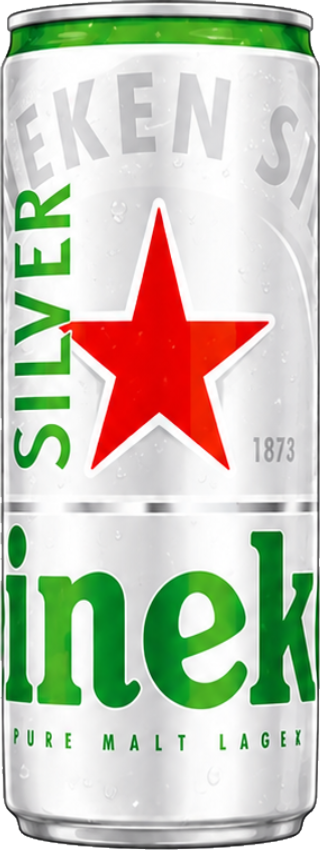
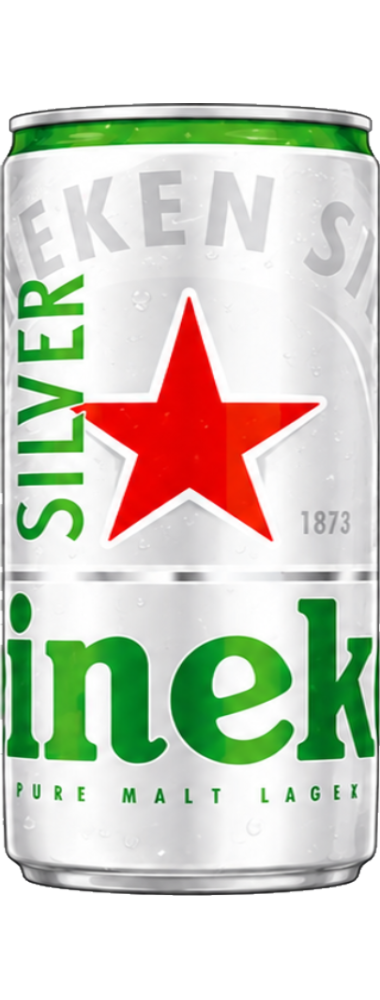
style: exactly match 250ml tall cans width to 330ml but 20.69% shorter

diff --git a/src/views/drinkInventory.js b/src/views/drinkInventory.js
@@ -473,7 +473,14 @@ export function render() {
               var scaleFactor = 1;
               if (p.volume) {
                 var ml = parseInt(p.volume.replace(/\\D/g, ''));
-                if (ml <= 250) scaleFactor = 0.82;
+                if (ml <= 250) {
+                  // Tall 250ml cans have transparent padding on canvas to match 330ml dimensions
+                  if (p.name.includes('Tiger Bạc 250ml') || p.name.includes('Heineken Silver 250ml')) {
+                    scaleFactor = 1.0;
+                  } else {
+                    scaleFactor = 0.82;
+                  }
+                }
                 else if (ml <= 320) scaleFactor = 0.94;
                 else if (ml <= 330) scaleFactor = 1.0;
                 else if (ml <= 360) scaleFactor = 1.08;
